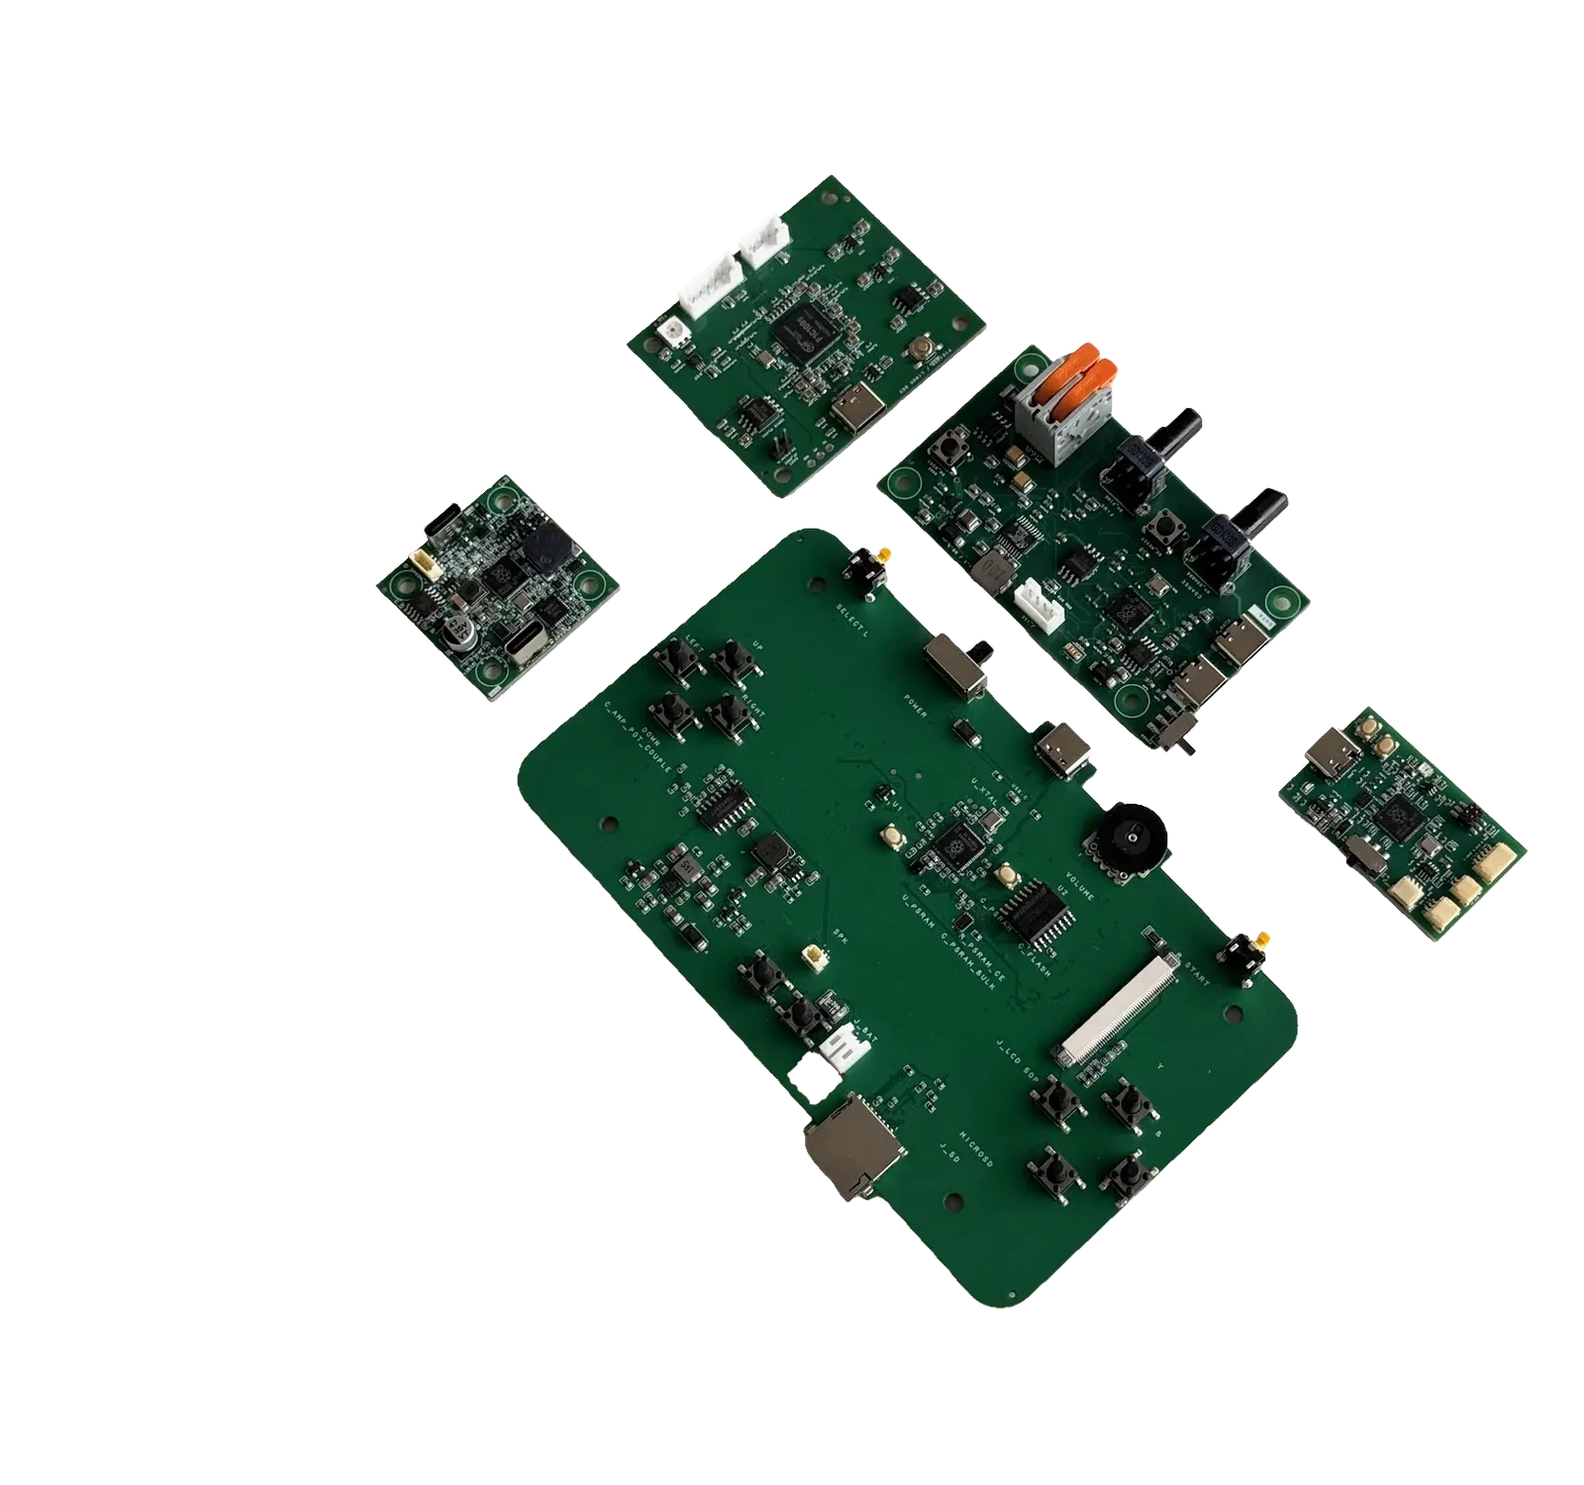
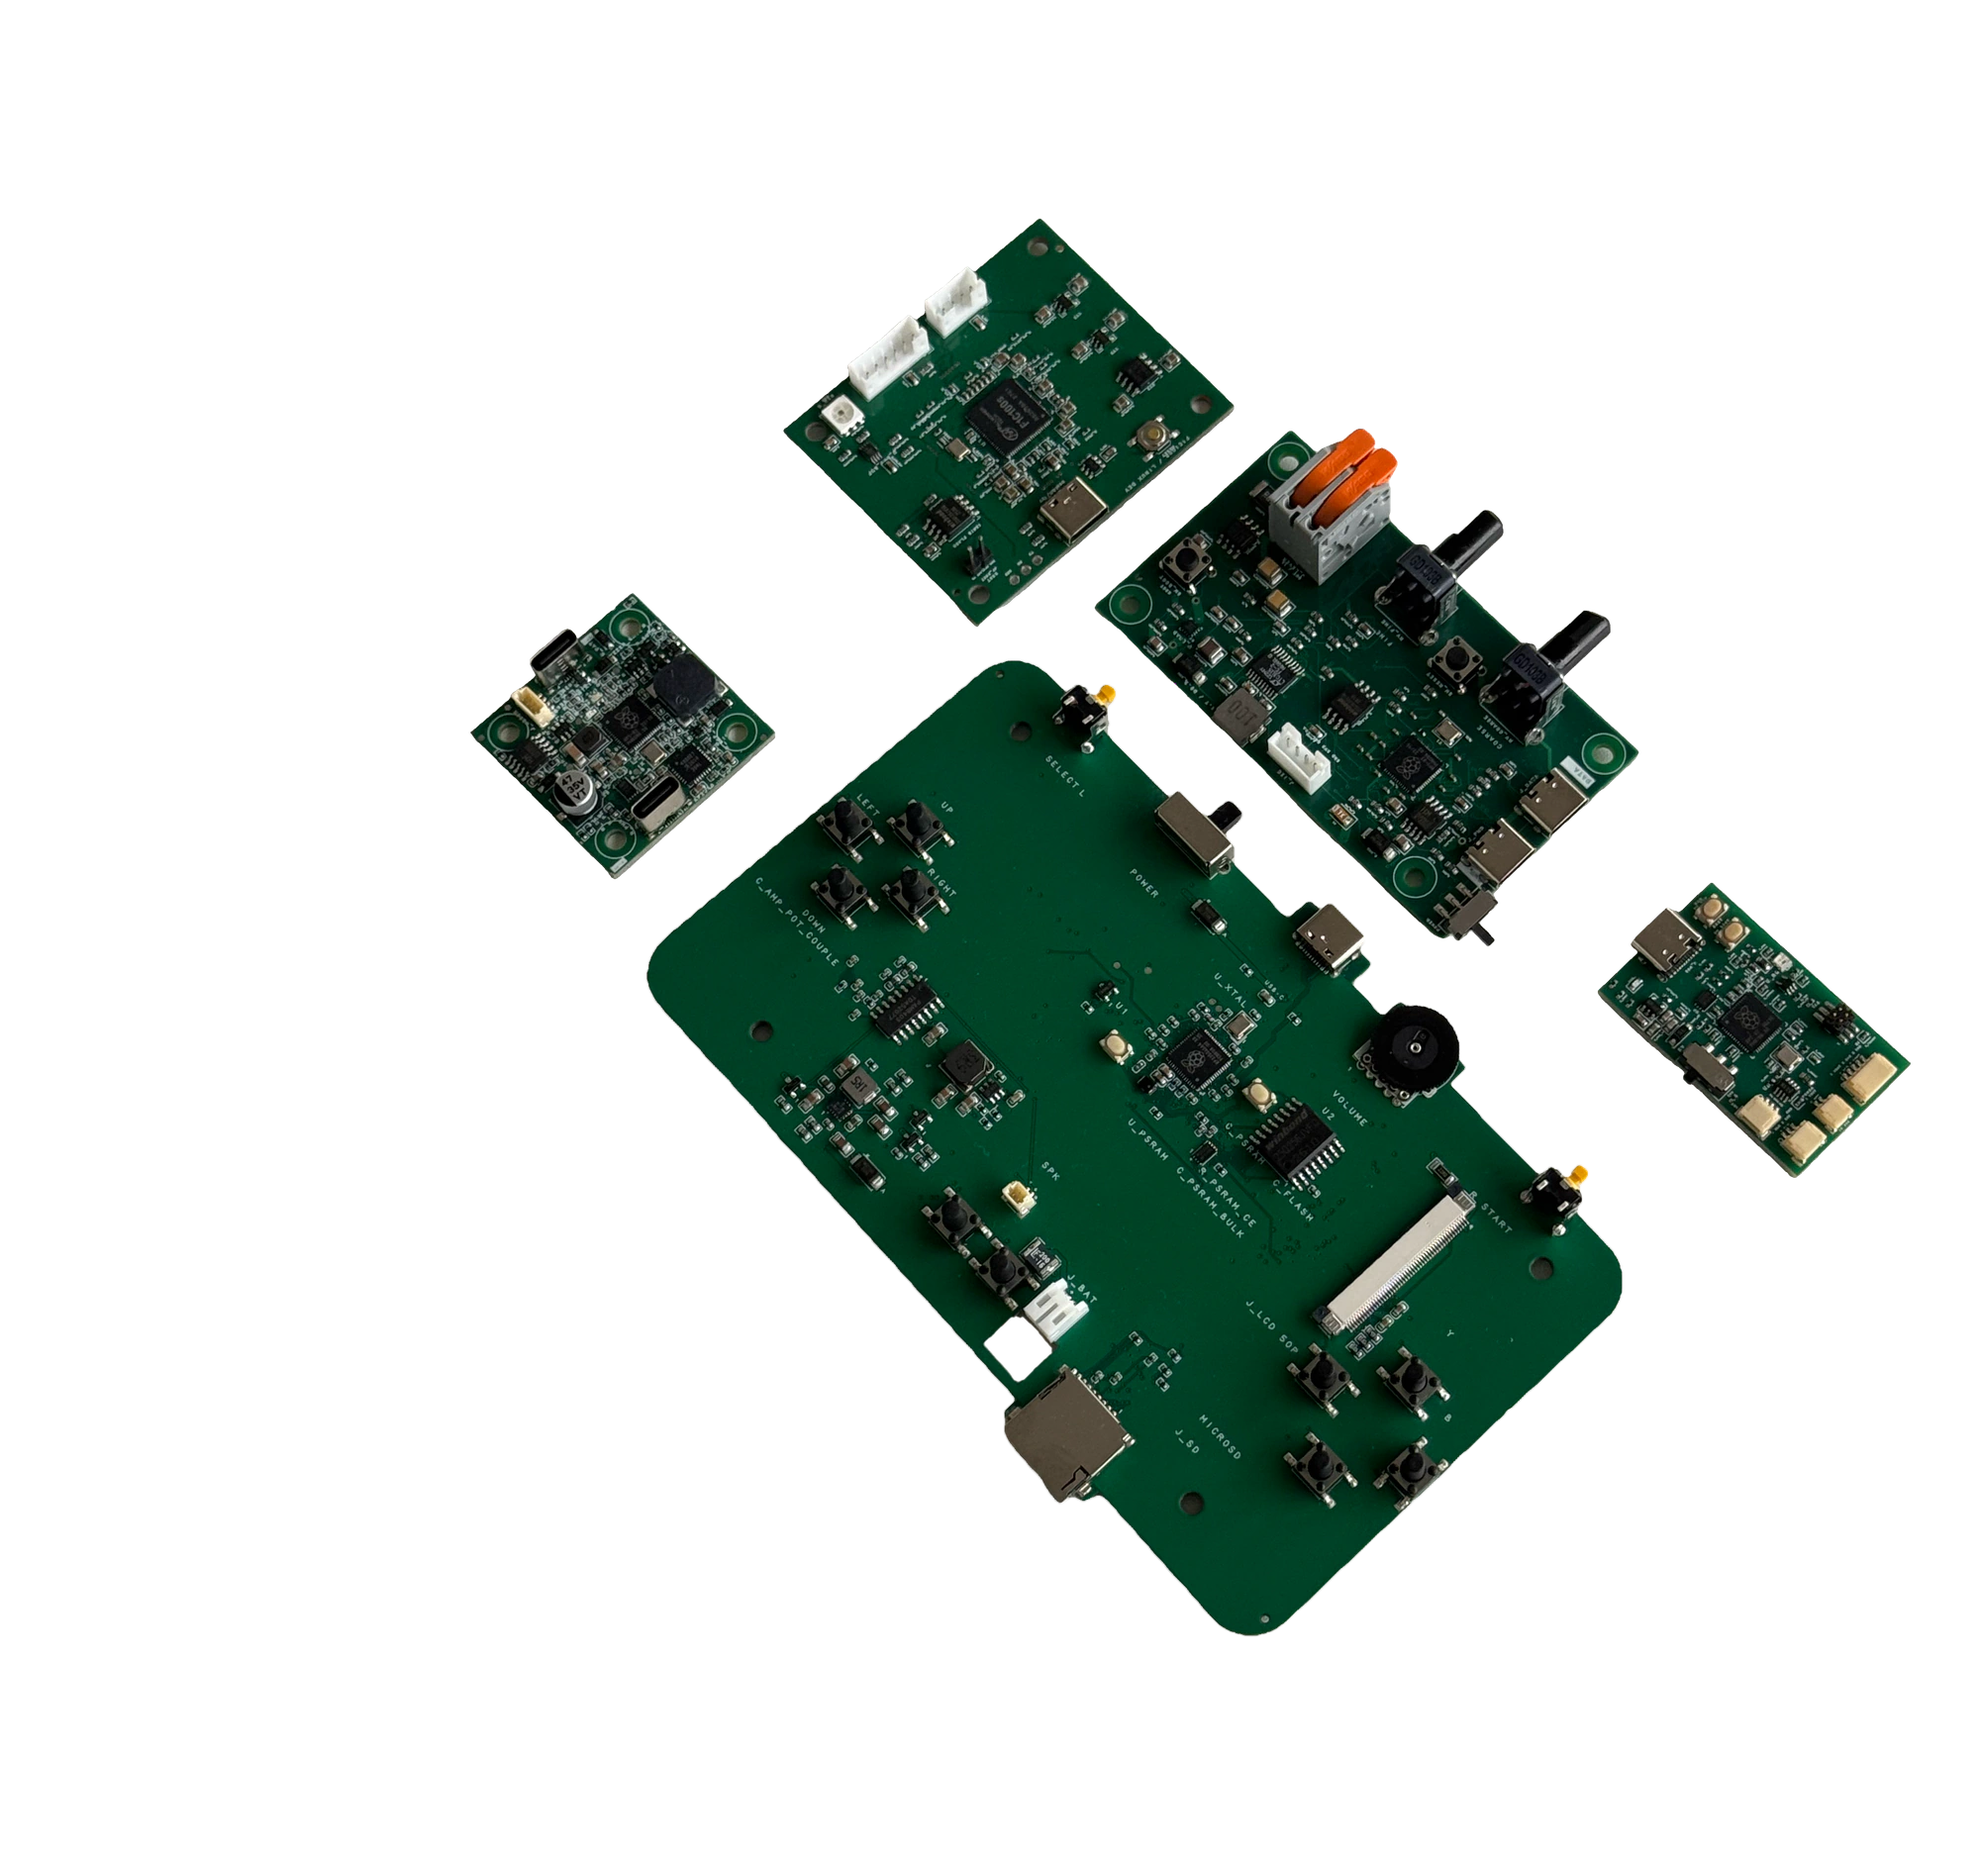
Rebuild hero from the full-res original photo, unfiltered
The previous cutout came from a 1496px recompressed WebP and was then
upscaled and color graded, which made it soft and over-processed. This
version is cut from the original 3024x4032 iPhone HEIC (converted from
Display P3 to sRGB), downscaled to a 2000x1875 canvas, with no color
grading. Board positions are unchanged from the photo. Also drops the
contrast/saturate CSS filter that was tuned for the 3D render; the drop
shadows stay.

diff --git a/index.html b/index.html
@@ -2231,7 +2231,7 @@
             top: 70px;
             display: block;
             opacity: .99;
-            filter: contrast(1.045) saturate(1.035) drop-shadow(0 16px 10px rgba(41, 49, 62, .07)) drop-shadow(0 38px 29px rgba(41, 49, 62, .15));
+            filter: drop-shadow(0 16px 10px rgba(41, 49, 62, .07)) drop-shadow(0 38px 29px rgba(41, 49, 62, .15));
         }
 
         .landing-proof-panel {
@@ -2901,7 +2901,7 @@
                     <span class="landing-board-halo" aria-hidden="true"></span>
                     <img class="landing-hero-board" src="assets/hero-real-boards-photo.webp"
                         alt="Photo of five assembled circuit boards built with tscircuit, including a handheld game console board"
-                        width="1600" height="1500" fetchpriority="high">
+                        width="2000" height="1875" fetchpriority="high">
                 </div>
             </div>
 
